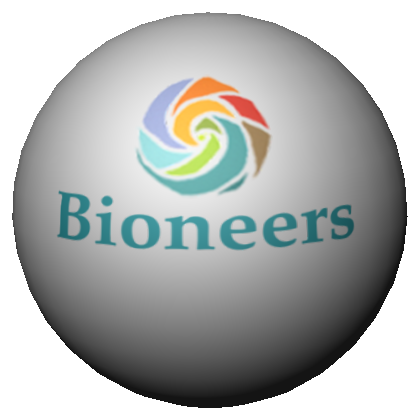
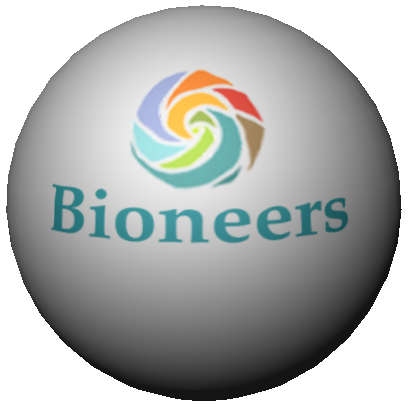
Added four new spheres to spherical.io.

diff --git a/app/assets/stylesheets/sphere.css.scss b/app/assets/stylesheets/sphere.css.scss
@@ -26,9 +26,9 @@ body {
     overflow: hidden;
     img {
       position: absolute;
-      top: -1px;
-      left: -2px;
-      max-width: 106%;
+      top: -2px;
+      left: -3px;
+      max-width: 107%;
     }
       p {
         position: absolute;
@@ -100,16 +100,33 @@ body {
         }
       }
       &.one {
-        top: 30px;
-        left: 32%;
-      }
-      &.two {
         top: 8px;
         left: 47%;
+      }
+      &.two {
+        top: 30px;
+        left: 32%;
       }
       &.three {
         top: 30px;
         left: 61.5%;
+      }
+
+      &.four {
+        top: 180px;
+        left: 25.9%;
+      }
+      &.five {
+        top: 180px;
+        left: 66.4%;
+      }
+      &.six {
+        top: 310px;
+        left: 24.7%;
+      }
+      &.seven {
+        top: 310px;
+        left: 67.5%;
       }
     }
 }
